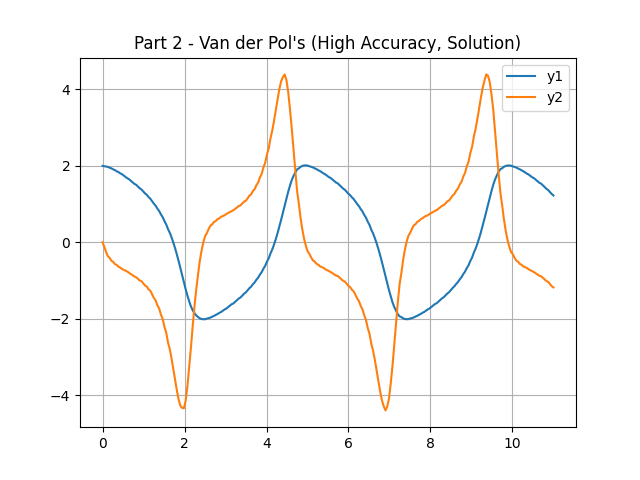
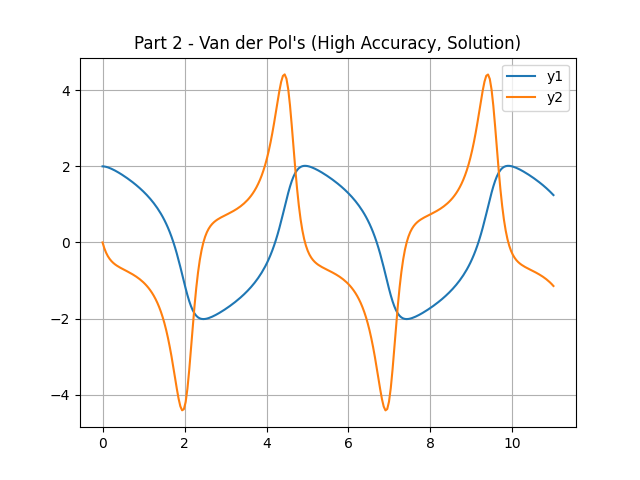
documentation & fix bug in erorr tolerance

diff --git a/src/main.cpp b/src/main.cpp
@@ -132,7 +132,7 @@ TEST(Part2, Problem2HighAccuracy) {
         .y0 = Eigen::Vector2f{2.0f, 0.0f},
         .t0 = 0.0f,
         .h0 = 0.01f
-    }, 1e-3f);
+    }, 1e-6f);
     pece::Figure figure1{"Part 2 - Van der Pol's (High Accuracy, Solution)"};
     figure1.AddPlot("y1", ts, ys[0]);
     figure1.AddPlot("y2", ts, ys[1]);

diff --git a/README.md b/README.md
@@ -1,0 +1,134 @@
+# Homework 5 - Adaptive PECE Solver
+
+## Overview
+
+This repository contains a simple implementation of a PECE solver using the 2nd-order Adams-Bashforth method as the predictor and the 2nd-order Adams-Moulton method as the corrector. The source code files include:
+
+- `include/ode.h`: Defines the data structures representing the ODE (system). The 1st~3rd derivatives are provided to the constructors as C++ `std::function` objects. To reduce redundant code, static functions for constructing ODEs used in Part 2 are provided (`PredatorPrey`, `VanDerPol` and `MethodOfLines`).
+- `include/solver.h`: Defines the data structure for the ODE solver. There are two overloads to the `Solver<dim>::Solve` function, which implement the non-adaptive and adaptive versions of the solver respectively.
+- `include/plot.h`: Enables exporting solution data to be read by a uniform Python script and plotted using `matplotlib`.
+- `src/main.cpp`: Solves the problems required by each part of the homework as different testcases.
+- `script/plot.py`: Uses `matplotlib` to plot the data exported by the C++ program.
+
+Third-party libraries are included as git submodules in `extern`. The `data` directory contains the solution and step size data exported as JSON files and `asset` directory contains the corresponding images of the plots.
+
+## Implementation Details
+
+### How to find starting values?
+
+The PECE method used here requires $f_{n-1}$ and $f_{n}$ to predict $y_{n+1}$. To obtain $f_{n-1}$, we use:
+
+- the midpoint method to estimate the point before the starting point to obtain $y_{-1}$ and $f_{-1}$ when adaptivity is not required
+- the forward Euler method with step size estimated using the error tolerance and $y''_0$ when variable step size is required
+
+The other starting values including $y_0$, $t_0$ and the tentative step size $h_0$ should be provided by the user as the `Solver<dim>::StartingValues` structure.
+
+### How to store past values?
+
+During the iteration, the past values needed to be stored are:
+
+- $f_{n-1}$, stored as `f_prev`
+- $h_{n-1}$, stored as `h_prev`
+
+For more details please see the implementation of `Solver<dim>::Solve`.
+
+### How to interpolate for off-step points?
+
+Suppose the off-step point is located between `t_curr` and `t_next`, we use the following method for interpolation:
+
+$$
+\hat y(t_{n}+h^*)=y_{n}+f_{n}h^*+\frac{(h^{*})^2(f_{n+1}-f_n)}{2h_{n}}
+$$
+
+### How to estimate the error?
+
+Since the PECE method should have the same LTE as the corrector method, we estimate the error as:
+
+$$
+||\frac1{12}h_n^3y'''(t_n)||_2
+$$
+
+If the error estimation is smaller than the error tolerance, the current step would be accepted and ready for interpolation.
+
+### How to choose the next step size or change the current step size?
+
+We use the step size anticipated to make the error estimation equal to $0.9\times\mathrm{tol}$ both when choosing the next step size and changing the current step size. In our case, this is
+
+$$
+h_\mathrm{next}=h_\mathrm{curr}(\frac{0.9\times\mathrm{tol}}{||\frac1{12}y'''(t_{curr})h_\mathrm{curr}^3||_2})^{1/3}
+$$
+
+When $||f'''(t_\mathrm{curr})||_2=0$, we keep the step size unchanged for the next step.
+
+## Usage
+
+To run this code, first make sure you have cloned the submodules and then use `cmake` to build the project.
+Run `pece.exe` in the root directory of this repository, and the data would be generated in the `data` directory. Then you can run `python script/plot.py` to view the plots. To save these plots as images, run `python script/plot.py --save`.
+
+## Results
+
+### Part 1 - No Adaptivity
+
+![](asset/Part%201%20-%20Fixed%20Step%20Size.png)
+
+### Part 2 - Adaptable Step Size
+
+#### Predator Prey Problem
+
+The solutions with error tolerance set to $1\times10^{-3}$:
+
+![](asset/Part%202%20-%20Predator%20Prey%20(Low%20Accuracy,%20Solution).png)
+
+![](asset/Part%202%20-%20Predator%20Prey%20(Low%20Accuracy,%20Relative).png)
+
+The step sizes used around each interpolating points:
+
+![](asset/Part%202%20-%20Predator%20Prey%20(Low%20Accuracy,%20Step%20Size).png)
+
+The solutions with error tolerance set to $1\times10^{-6}$:
+
+![](asset/Part%202%20-%20Predator%20Prey%20(High%20Accuracy,%20Solution).png)
+
+![](asset/Part%202%20-%20Predator%20Prey%20(High%20Accuracy,%20Relative).png)
+
+The step sizes used around each interpolating points:
+
+![](asset/Part%202%20-%20Predator%20Prey%20(High%20Accuracy,%20Step%20Size).png)
+
+#### Van der Pol's Equation
+
+The solutions with error tolerance set to $1\times10^{-3}$:
+
+![](asset/Part%202%20-%20Van%20der%20Pol's%20(Low%20Accuracy,%20Solution).png)
+
+The step sizes used around each interpolating points:
+
+![](asset/Part%202%20-%20Van%20der%20Pol's%20(Low%20Accuracy,%20Step%20Size).png)
+
+The solutions with error tolerance set to $1\times10^{-6}$:
+
+![](asset/Part%202%20-%20Van%20der%20Pol's%20(High%20Accuracy,%20Solution).png)
+
+The step sizes used around each interpolating points:
+
+![](asset/Part%202%20-%20Van%20der%20Pol's%20(High%20Accuracy,%20Step%20Size).png)
+
+#### Method of Lines
+
+The interval $x\in[0,1]$ is discretized into 256 points.
+
+The solutions with error tolerance set to $1\times10^{-3}$:
+
+![](asset/Part%202%20-%20Method%20Of%20Lines%20(Low%20Accuracy,%20Solution).png)
+
+The step sizes used **around each interpolating points** of $t$:
+
+![](asset/Part%202%20-%20Method%20Of%20Lines%20(Low%20Accuracy,%20Step%20Size).png)
+
+The solutions with error tolerance set to $1\times10^{-3}$:
+
+![](asset/Part%202%20-%20Method%20Of%20Lines%20(High%20Accuracy,%20Solution).png)
+
+The step sizes used **around each interpolating points** of $t$:
+
+![](asset/Part%202%20-%20Method%20Of%20Lines%20(High%20Accuracy,%20Step%20Size).png)
